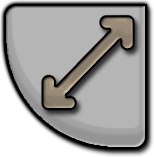
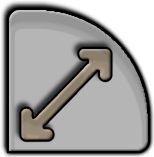
Ability To Resize and Transform in Level Editor.

diff --git a/Classes/LevelEditor.cpp b/Classes/LevelEditor.cpp
@@ -78,28 +78,6 @@ bool LevelEditor::init(){
     currentSprite->setVisible(false);
     currentSprite->setAnchorPoint(Vec2(0,0));
     
-    transform = MainMenu::CreateButton("Transform.png", this, menu_selector(LevelEditor::transformCallback), Vec2(0,0), Vec2(0,0));
-    //menuItems.pushBack(transform);
-    resize = MainMenu::CreateButton("Resize.png", this, menu_selector(LevelEditor::resizeCallback), Vec2(0,0), Vec2(0,0));
-    //menuItems.pushBack(resize);
-    remove = MainMenu::CreateButton("Remove.png", this, menu_selector(LevelEditor::removeCallback), Vec2(0,0), Vec2(0,0));
-    //menuItems.pushBack(remove);
-    rotate = MainMenu::CreateButton("Rotate.png", this, menu_selector(LevelEditor::rotateCallback), Vec2(0,0), Vec2(0,0));
-    //menuItems.pushBack(rotate);
-    transform->setVisible(false);
-    resize->setVisible(false);
-    remove->setVisible(false);
-    rotate->setVisible(false);
-    rotate->setAnchorPoint(Vec2(1,0));
-    resize->setAnchorPoint(Vec2(1,1));
-    transform->setAnchorPoint(Vec2(0,0));
-    remove->setAnchorPoint(Vec2(0,1));
-    this->addChild(transform,1);
-    this->addChild(resize,1);
-    this->addChild(remove,1);
-    this->addChild(rotate,1);
-    hasSelected = false;
-    
     auto listener = EventListenerTouchAllAtOnce::create();
     //listener->setSwallowTouches(true);
     listener->onTouchesBegan = CC_CALLBACK_2(LevelEditor::onTouchesBegan, this);
@@ -123,6 +101,41 @@ bool LevelEditor::init(){
     this->addChild(background);
     menuItems.pushBack(selectedSprite);
     
+    transform = MainMenu::CreateButton("Transform.png", Vec2(0,0), Vec2(0,0));//this, menu_selector(LevelEditor::transformCallback), Vec2(0,0), Vec2(0,0));
+    menuItems.pushBack(transform);
+    resize = MainMenu::CreateButton("Resize.png", Vec2(0,0), Vec2(0,0));
+    menuItems.pushBack(resize);
+    remove = MainMenu::CreateButton("Remove.png", this, menu_selector(LevelEditor::removeCallback), Vec2(0,0), Vec2(0,0));
+    menuItems.pushBack(remove);
+    rotate = MainMenu::CreateButton("Rotate.png", Vec2(0,0), Vec2(0,0));
+    menuItems.pushBack(rotate);
+    //rotate->setDisabledImage(Sprite::create("RotateDisabled.png"));
+    //remove->setDisabledImage(Sprite::create("RemoveDisabled.png"));
+    //transform->setDisabledImage(Sprite::create("TransformDisabled.png"));
+    //resize->setDisabledImage(Sprite::create("ResizeDisabled.png"));
+    //transform->setRotation(180.f);
+    //resize->setRotation(180.f);
+    transform->setVisible(false);
+    resize->setVisible(false);
+    remove->setVisible(false);
+    rotate->setVisible(false);
+    rotate->setAnchorPoint(Vec2(1,0));
+    transform->setAnchorPoint(Vec2(1,1));
+    resize->setAnchorPoint(Vec2(0,0));
+    remove->setAnchorPoint(Vec2(0,1));
+    int od = -4;
+    remove->setGlobalZOrder(od);
+    transform->setGlobalZOrder(od);
+    resize->setGlobalZOrder(od);
+    rotate->setGlobalZOrder(od);
+    hasSelected = false;
+    isTransforming = false;
+    isRotating = false;
+    isScaling = false;
+    transform->getEventDispatcher()->setEnabled(false);
+    resize->getEventDispatcher()->setEnabled(false);
+    rotate->getEventDispatcher()->setEnabled(false);
+
     float buttonHeightPixels = 155;
     float tempScale = MainMenu::minScreenScale;
     if(tempScale > 1.5)
@@ -145,13 +158,10 @@ bool LevelEditor::init(){
     homeSelectButton = MainMenu::CreateButton("home.png", this, menu_selector(LevelEditor::homeButtonCallback), Vec2(0.9,1.0-buttonGap), Vec2(1,0));
     menuItems.pushBack(homeSelectButton);
     trashSelectButton = MainMenu::CreateButton("trash.png", this, menu_selector(LevelEditor::trashButtonCallback), Vec2(0.9,1.0-buttonGap-(2*jump)), Vec2(1,0));
-    //menuItems.pushBack(trashSelectButton);
     saveSelectButton = MainMenu::CreateButton("save.png", this, menu_selector(LevelEditor::saveButtonCallback), Vec2(0.9,1.0-buttonGap-(4 * jump)), Vec2(1,0));
     menuItems.pushBack(saveSelectButton);
     eraseSelectButton = MainMenu::CreateButton("LevelEditorErase.png", this, menu_selector(LevelEditor::EraseSelectCallback), Vec2(0.9,1.0-buttonGap-(3*jump)), Vec2(1,0));
-    //menuItems.pushBack(eraseSelectButton);
     moveSelectButton = MainMenu::CreateButton("LevelEditorMove.png", this, menu_selector(LevelEditor::moveButtonCallback), Vec2(0.9,1.0-buttonGap-(4*jump)), Vec2(1,0));
-    //menuItems.pushBack(moveSelectButton);
     
     selectedLabel = MainMenu::CreateLabel("Pan Tool", Vec2(0,1.0-0.015), Vec2(0,0));
     selectedLabel->setGlobalZOrder(0);
@@ -186,17 +196,17 @@ bool LevelEditor::init(){
     UpdateAxis();
     return true;
 }
-void LevelEditor::transformCallback(Ref*){
-
+void LevelEditor::transformCallback(){
+    isTransforming = true;
 };
-void LevelEditor::resizeCallback(Ref*){
-
+void LevelEditor::resizeCallback(){
+    isScaling = true;
 };
 void LevelEditor::removeCallback(Ref*){
     Deselect(false);
 };
-void LevelEditor::rotateCallback(Ref*){
-
+void LevelEditor::rotateCallback(){
+    isRotating = true;
 };
 void LevelEditor::acceptQuitCallback(Ref*){
     if(currentLevel->GetName().compare("qq36q81q") == 0){
@@ -429,26 +439,38 @@ bool LevelEditor::onTouchBegan(cocos2d::Touch* touch, cocos2d::Event* event){
     else{
         if(!saveDialog){
             touchStart = touch->getLocation();
+            touchCurrent = touch->getLocation();
+            if(transform->getBoundingBox().containsPoint(touchStart))
+               transformCallback();
+            if(rotate->getBoundingBox().containsPoint(touchStart))
+                rotateCallback();
+            if(resize->getBoundingBox().containsPoint(touchStart))
+                resizeCallback();
             //Check if the user selected an entity//
             Entity* target = preview->GetTarget(touchStart);
             if(target != nullptr){
                 Select(target);
             } else {
             //End Check//
-                if(currentTool == HOOK || currentTool == SPAWNER){
-                    Entity* tempEnt = (preview->CreateEntity(touchStart, touchStart, currentTool));
-                    entities[tempEnt->ID] = tempEnt;
-                    preview->AddEntity(tempEnt);
+                if(isRotating || isTransforming || isScaling){
+                    
                 } else {
-                    if(currentTool == NO_TOOL){
-                        
+                    if(currentTool == HOOK || currentTool == SPAWNER){
+                        Entity* tempEnt = (preview->CreateEntity(touchStart, touchStart, currentTool));
+                        entities[tempEnt->ID] = tempEnt;
+                        preview->AddEntity(tempEnt);
                     } else {
-                        currentSprite->setPosition(touchStart);
-                        currentSprite->setContentSize(Size(1,1));
-                        currentSprite->setVisible(true);
+                        if(currentTool == NO_TOOL){
+                            if(hasSelected)
+                                Deselect();
+                        } else {
+                            currentSprite->setPosition(touchStart);
+                            currentSprite->setContentSize(Size(1,1));
+                            currentSprite->setVisible(true);
+                        }
                     }
-                }
-            } // This may be innapropriately placed.
+                } // This may be innapropriately placed.
+            }
             return true;
         }
         return false;
@@ -458,6 +480,10 @@ bool LevelEditor::onTouchBegan(cocos2d::Touch* touch, cocos2d::Event* event){
 void LevelEditor::Select(Entity* entity){
     if(hasSelected)
         Deselect();
+    //if(entity->GetType() == HOOK || entity->GetType() == SPAWNER)
+        //resize->setEnabled(false);
+    //if(entity->GetType() == HOOK)
+        //rotate->setEnabled(false);
     hasSelected = true;
     currentSprite->setVisible(true);
     selectedEntity = entity;
@@ -473,8 +499,8 @@ void LevelEditor::Select(Entity* entity){
     remove->setVisible(true);
     Rect box = currentSprite->getBoundingBox();
     rotate->setPosition(Vec2(box.getMinX(), box.getMaxY()));
-    transform->setPosition(Vec2(box.getMaxX(), box.getMaxY()));
-    resize->setPosition(Vec2(box.getMinX(), box.getMinY()));
+    resize->setPosition(Vec2(box.getMaxX(), box.getMaxY()));
+    transform->setPosition(Vec2(box.getMinX(), box.getMinY()));
     remove->setPosition(Vec2(box.getMaxX(), box.getMinY()));
 }
 void LevelEditor::Deselect(bool keep){
@@ -488,6 +514,12 @@ void LevelEditor::Deselect(bool keep){
     remove->setVisible(false);
     resize->setVisible(false);
     currentSprite->setVisible(false);
+    //rotate->setEnabled(true);
+    //resize->setEnabled(true);
+    //transform->setEnabled(true);
+    //remove->setEnabled(true);
+    //resize->getEventDispatcher()->setEnabled(false);
+    //rotate->getEventDispatcher()->setEnabled(false);
 }
 void LevelEditor::UpdateSelected(){
     if(hasSelected){
@@ -499,8 +531,8 @@ void LevelEditor::UpdateSelected(){
         currentSprite->setContentSize(selectedEntitySize);
         Rect box = currentSprite->getBoundingBox();
         rotate->setPosition(Vec2(box.getMinX(), box.getMaxY()));
-        transform->setPosition(Vec2(box.getMaxX(), box.getMaxY()));
-        resize->setPosition(Vec2(box.getMinX(), box.getMinY()));
+        resize->setPosition(Vec2(box.getMaxX(), box.getMaxY()));
+        transform->setPosition(Vec2(box.getMinX(), box.getMinY()));
         remove->setPosition(Vec2(box.getMaxX(), box.getMinY()));
     }
 }
@@ -522,46 +554,74 @@ void LevelEditor::UpdateAxis(){
     }
 }
 void LevelEditor::onTouchEnded(cocos2d::Touch* touch, cocos2d::Event* event){
-    if(currentTool != ERASE && currentTool != NO_TOOL){
-        if(currentTool != SPAWNER && currentTool != HOOK){
-            if(std::abs(currentSprite->getContentSize().width) < (0.5 * TILE_SIZE * (1.0/preview->GetScale())) || std::abs(currentSprite->getContentSize().height) < (0.5 * (TILE_SIZE*(1.0/preview->GetScale())))){
-                currentSprite->setVisible(false);
-            } else{
-                Rect bb = currentSprite->getBoundingBox();
-                Vec2 minPoint(bb.getMinX(), bb.getMinY());
-                Vec2 maxPoint(bb.getMaxX(), bb.getMaxY());
-                if(touchStart.x > touchCurrent.x){
-                    maxPoint = Vec2(maxPoint.x + 20, maxPoint.y);
-                    minPoint = Vec2(minPoint.x - 20, minPoint.y);
+    if(isScaling || isRotating || isTransforming){
+        isScaling = false;
+        isRotating = false;
+        isTransforming = false;
+    } else {
+        if(currentTool != ERASE && currentTool != NO_TOOL){
+            if(currentTool != SPAWNER && currentTool != HOOK){
+                if(std::abs(currentSprite->getContentSize().width) < (0.5 * TILE_SIZE * (1.0/preview->GetScale())) || std::abs(currentSprite->getContentSize().height) < (0.5 * (TILE_SIZE*(1.0/preview->GetScale())))){
+                    currentSprite->setVisible(false);
+                } else{
+                    Rect bb = currentSprite->getBoundingBox();
+                    Vec2 minPoint(bb.getMinX(), bb.getMinY());
+                    Vec2 maxPoint(bb.getMaxX(), bb.getMaxY());
+                    if(touchStart.x > touchCurrent.x){
+                        maxPoint = Vec2(maxPoint.x + 20, maxPoint.y);
+                        minPoint = Vec2(minPoint.x - 20, minPoint.y);
+                    }
+                    if(touchStart.y > touchCurrent.y){
+                        maxPoint = Vec2(maxPoint.x, maxPoint.y + 20);
+                        minPoint = Vec2(minPoint.x, minPoint.y - 20);
+                    }
+                    Entity* tempEnt = (preview->CreateEntity(minPoint , maxPoint, currentTool));
+                    entities[tempEnt->ID] = tempEnt;
+                    preview->AddEntity(tempEnt);
+                    currentSprite->setVisible(false);
                 }
-                if(touchStart.y > touchCurrent.y){
-                    maxPoint = Vec2(maxPoint.x, maxPoint.y + 20);
-                    minPoint = Vec2(minPoint.x, minPoint.y - 20);
-                }
-                Entity* tempEnt = (preview->CreateEntity(minPoint , maxPoint, currentTool));
-                entities[tempEnt->ID] = tempEnt;
-                preview->AddEntity(tempEnt);
-                currentSprite->setVisible(false);
             }
         }
-    }
-    if(currentTool == ERASE){
-        Entity* entToRemove = preview->GetTarget(currentTouches[0]->getLocation());
-        preview->RemoveEntity(entToRemove);
-        entities.erase(entToRemove->ID);
+        if(currentTool == ERASE){
+            Entity* entToRemove = preview->GetTarget(currentTouches[0]->getLocation());
+            preview->RemoveEntity(entToRemove);
+            entities.erase(entToRemove->ID);
+        }
     }
 }
 void LevelEditor::onTouchMoved(Touch* touch, Event* event){
-    if(currentTool != NO_TOOL && currentTool != ERASE){
+    if(isRotating || isScaling || isTransforming){
+        Vec2 oldTouch = touchCurrent;
         touchCurrent = touch->getLocation();
-        if(currentSprite != NULL)
-            currentSprite->setContentSize(Size(touchCurrent.x - touchStart.x, touchCurrent.y - touchStart.y));
-    }
-    if(currentTool == NO_TOOL){
-        Vec2 oldTouch = touchStart;
-        touchCurrent = touch->getLocation();
-        touchStart  = touchCurrent;
-        preview->Drag(touchCurrent - oldTouch);
+        if(isScaling){
+            if(currentSprite != NULL){
+                currentSprite->setContentSize(Size(currentSprite->getContentSize().width + (touchCurrent.x - oldTouch.x), currentSprite->getContentSize().height - (touchCurrent.y - oldTouch.y)));
+                selectedEntity->SetSize(Vec2(currentSprite->getContentSize().width / preview->GetScale(), currentSprite->getContentSize().height / preview->GetScale()));
+                this->UpdateSelected();
+            }
+        }
+        if(isTransforming){
+            if(currentSprite != NULL){
+                currentSprite->setPosition(Vec2(currentSprite->getPosition().x + (touchCurrent.x - oldTouch.x), currentSprite->getPosition().y + (touchCurrent.y - oldTouch.y)));
+                selectedEntity->SetPosition(preview->ScreenToMap(Vec2(currentSprite->getBoundingBox().getMidX(), currentSprite->getBoundingBox().getMidY())));
+                this->UpdateSelected();
+            }
+        }
+        if(isRotating){
+            
+        }
+    } else {
+        if(currentTool != NO_TOOL && currentTool != ERASE){
+            touchCurrent = touch->getLocation();
+            if(currentSprite != NULL)
+                currentSprite->setContentSize(Size(touchCurrent.x - touchStart.x, touchCurrent.y - touchStart.y));
+        }
+        if(currentTool == NO_TOOL){
+            Vec2 oldTouch = touchStart;
+            touchCurrent = touch->getLocation();
+            touchStart  = touchCurrent;
+            preview->Drag(touchCurrent - oldTouch);
+        }
     }
 }
 void LevelEditor::onTouchesBegan(const std::vector<cocos2d::Touch*> &touches, cocos2d::Event* event){

diff --git a/Classes/LevelEditor.h b/Classes/LevelEditor.h
@@ -62,10 +62,10 @@ public:
     void declineQuitCallback(Ref*);
     void GoalSelectCallback(Ref*);
     void closePopUpCallback(Ref*);
-    void transformCallback(Ref*);
-    void resizeCallback(Ref*);
+    void transformCallback();
+    void resizeCallback();
     void removeCallback(Ref*);
-    void rotateCallback(Ref*);
+    void rotateCallback();
     void finishQuit(Node* sender, Value data);
     
     MenuItemImage* transform;
@@ -145,6 +145,9 @@ private:
     std::map<int,Entity*> entities;
     Preview* preview;
     Scale9Sprite* currentSprite;
+    bool isTransforming;
+    bool isScaling;
+    bool isRotating;
 };
 
 #endif /* defined(__Snag__LevelEditor__) */

diff --git a/Classes/MainMenu.cpp b/Classes/MainMenu.cpp
@@ -150,7 +150,7 @@ MenuItemImage* MainMenu::CreateButton(std::string imagePath, Ref* ref, SEL_MenuH
     temp->setScale(tempScale.x, tempScale.y);
     temp->setAnchorPoint(Point(0,1));
     temp->retain();
-    printf("Created a button at position (%f, %f)", temp->getPosition().x, temp->getPosition().y);
+    printf("\nCreated a button at position (%f, %f)", temp->getPosition().x, temp->getPosition().y);
     return temp;
 };
 MenuItemImage* MainMenu::CreateButton(std::string imagePath, Vec2 pos, Vec2 anchors){

diff --git a/Classes/Entity.cpp b/Classes/Entity.cpp
@@ -114,6 +114,9 @@ Sprite* Entity::GetPhysicsSprite(){
 Point Entity::GetPosition(){
     return position;
 }
+void Entity::SetPosition(Vec2 pos){
+    position = pos;
+}
 Vec2 Entity::GetLaunchVelocity(){
     return launchVelocity;
 }
@@ -122,6 +125,9 @@ int Entity::GetType(){
 }
 Vec2 Entity::GetSize(){
     return size;
+}
+void Entity::SetSize(Vec2 size){
+    this->size = size;
 }
 Vec2 Entity::GetOriginalSize(){
     return originalSize;

diff --git a/Classes/Entity.h b/Classes/Entity.h
@@ -42,12 +42,14 @@ public:
     void draw();
     
     Vec2 GetSize();
+    void SetSize(Vec2);
     Sprite* GetSprite();
     Point GetPosition();
     Vec2 GetLaunchVelocity();
     Sprite* GetPhysicsSprite();
     int GetType();
     Vec2 GetOriginalSize();
+    void SetPosition(Vec2);
     int ID;
 protected:
     virtual void CalculateScale(Vec2 userPosition, float boardScale);
